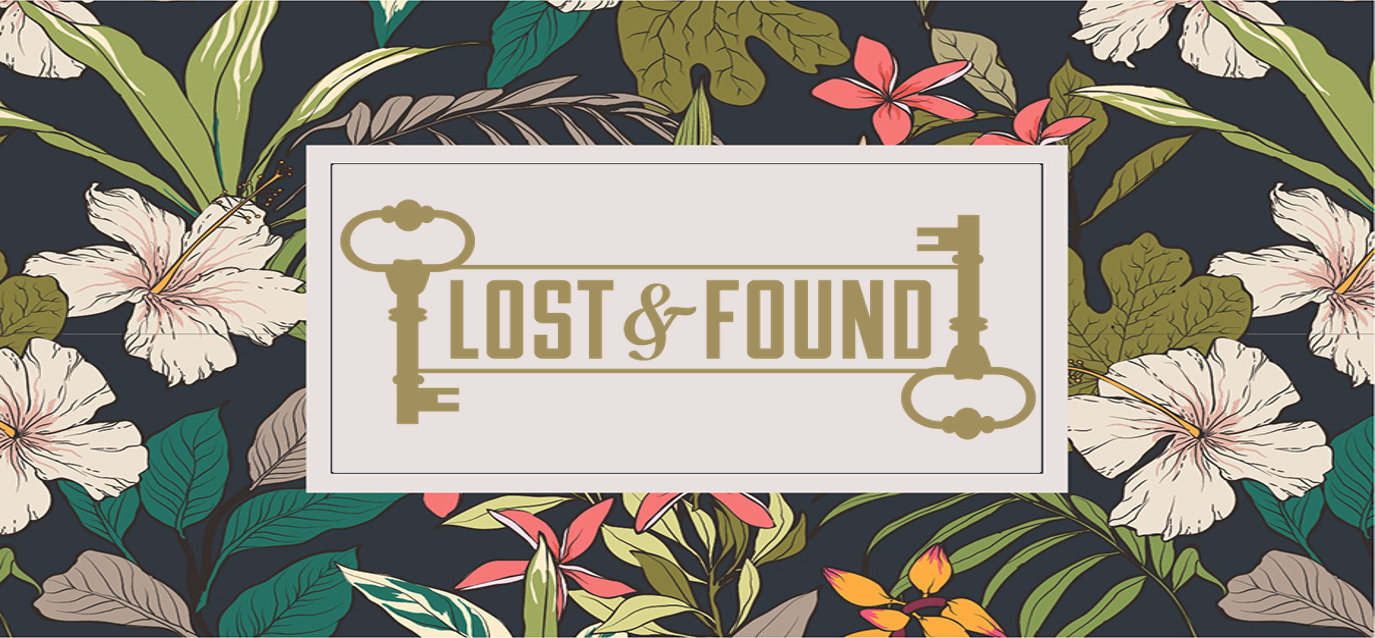
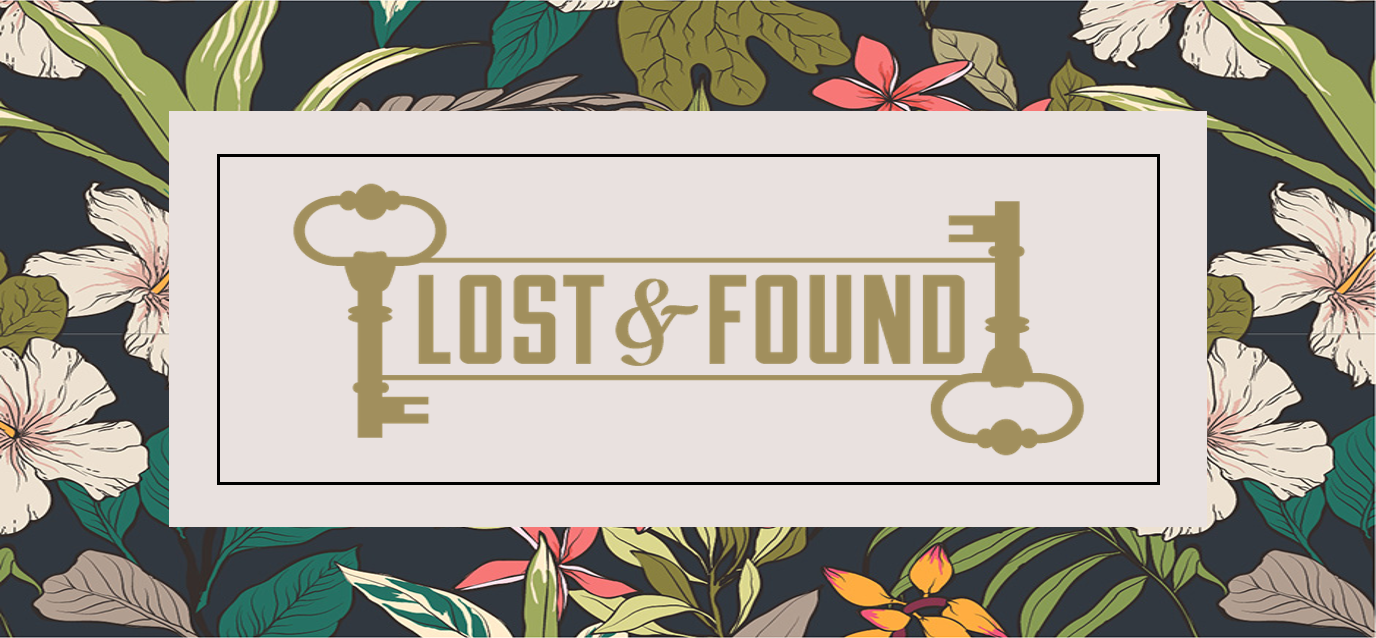
chagne

Changed region(s): [[0.1222, 0.1489, 0.8858, 0.8339]]

diff --git a/page/templates/home.html b/page/templates/home.html
@@ -81,7 +81,6 @@
             <i class="fas fa-truck"></i> 푸드트럭안내
             <i class="fas fa-truck"></i>
           </h3>
-
           <div class="card">
             <div class="card-body">
               <h5 class="card-title">푸드트럭 위치</h5>
@@ -96,11 +95,14 @@
       </div>
   </section>
 
+
   <section class="storeinfo">
       <br>
       <br>
       <h1 class="title" style="text-align:center; font-size: 3em">분실물센터</h1>
-      <a href="/lost"> <img src="{% static 'page/images/Lost.png' %}" alt="" width = 100%;> </a>
+      <a href="/lost"> <img src="{% static 'page/images/lost.png' %}" alt="" width = 100%;> </a>
+    </div>
+    </div>
   </section>
 
 

diff --git a/page/static/page/css/booth.css b/page/static/page/css/booth.css
@@ -11,6 +11,7 @@ div.card{
 div h3{
     text-align: center;
     font-weight: bold;
+    margin-top: 20px;
 }
 .card-title{
     margin-bottom:20px;
